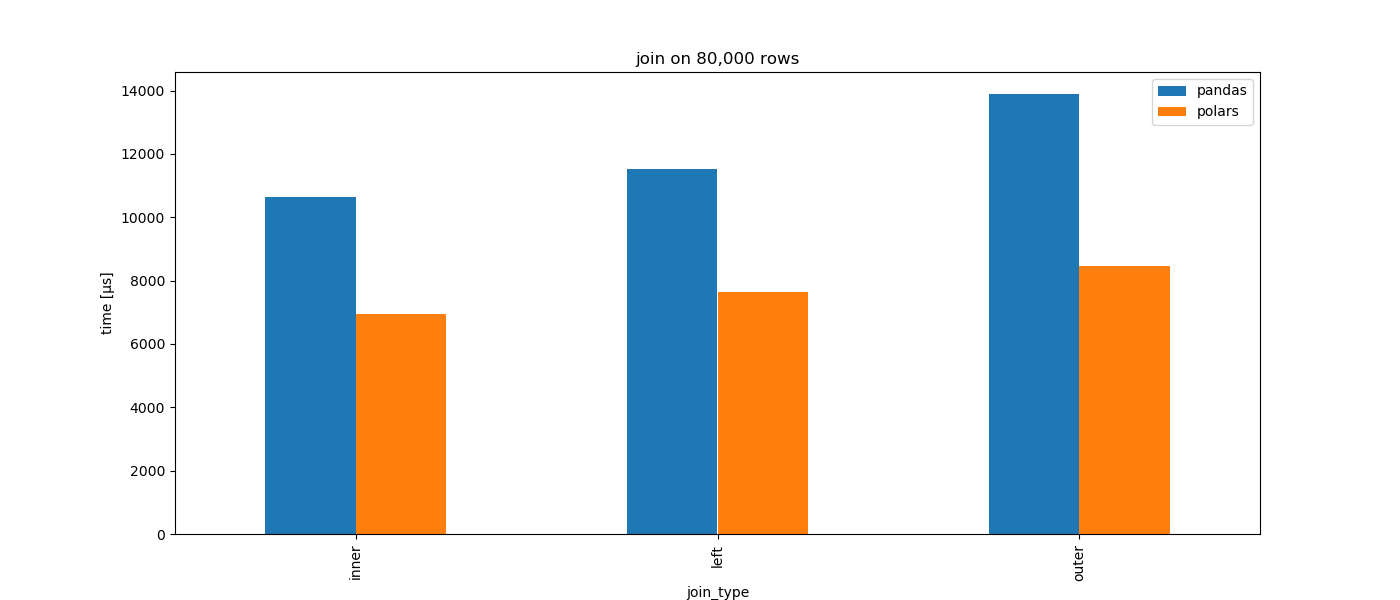
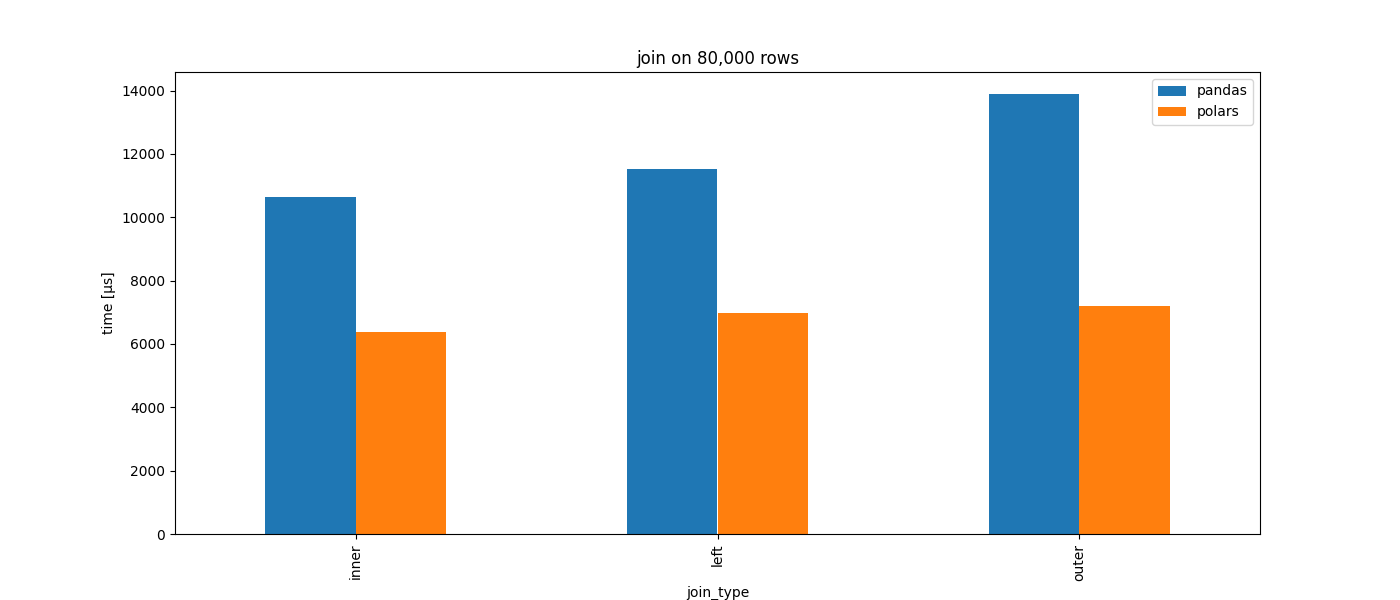
update readme and performance plots

diff --git a/README.md b/README.md
@@ -4,37 +4,57 @@
 [![](http://meritbadge.herokuapp.com/polars)](https://crates.io/crates/polars)
 [![Gitter](https://badges.gitter.im/polars-rs/community.svg)](https://gitter.im/polars-rs/community?utm_source=badge&utm_medium=badge&utm_campaign=pr-badge)
 
-## Blazingly fast (lazy) in memory DataFrames in Rust
+## Blazingly fast  DataFrames in Rust
 
-Polars is a DataFrames library implemented in Rust, using Apache Arrow as backend. 
-Its focus is being a fast in memory DataFrame library. 
+Polars is a blazingly fast DataFrames library implemented in Rust. Its memory model uses Apache Arrow as backend. 
 
-Polars is in rapid development, but it already supports most features needed for a useful DataFrame library. Do you
-miss something, please make an issue and/or sent a PR.
+It currently consists of an eager API similar to pandas and a lazy API that is somewhat similar to spark. Amongst
+more the eager API supports:
 
-## First run in Rust
-Take a look at the [10 minutes to Polars notebook](examples/10_minutes_to_polars.ipynb) to get you started.
-Want to run the notebook yourself? Clone the repo and run `$ cargo c && docker-compose up`. This will spin up a jupyter
-notebook on `http://localhost:8891`. The notebooks are in the `/examples` directory.
- 
-Oh yeah.. and get a cup of coffee because compilation will take while during the first run.
+* Filters
+* Shifts
+* IO (csv, parquet, Arrow IPC)
+* GroupBys + aggregations
+* Joins
+* Pivots
+* Melts
+* Filling null values with various strategies
+* Aggregations
+* Comparisons
+* Reversing
+* Sorting
+* Finding unique values
+* Arithmetic
+* Rust iterators
+* Closure application
 
-## First run in Python
-A subset of the Polars functionality is also exposed through Python bindings. You can install them with:
+The lazy API is built on top of the eager API and currently only supports a subset:
 
-`$ pip install py-polars`
-
-Next you can check the [10 minutes to py-polars notebook](examples/10_minutes_to_pypolars.ipynb) or take a look 
-at the [reference](https://py-polars.readthedocs.io/en/latest/).
+* Filters
+* Joins
+* GroupBys + aggregations
+* Comparisons
+* Arithmetic
+* Aggregations
+* Sorting
+* query optimization
+    - predicate pushdown optimization
+    - projection pushdown optimization
+    - type-coercion optimization
 
 
 ## Documentation
-Want to know what features Polars support? [Check the current master docs](https://ritchie46.github.io/polars). 
+Want to know about all the features Polars supports? [Check the current master docs](https://ritchie46.github.io/polars). 
 
 Most features are described on the [DataFrame](https://ritchie46.github.io/polars/polars/frame/struct.DataFrame.html), 
 [Series](https://ritchie46.github.io/polars/polars/series/enum.Series.html), and [ChunkedArray](https://ritchie46.github.io/polars/polars/chunked_array/struct.ChunkedArray.html)
 structs in that order. For `ChunkedArray` a lot of functionality is also defined by `Traits` in the 
 [ops module](https://ritchie46.github.io/polars/polars/chunked_array/ops/index.html).
+Other useful parts of the documentation are:
+* [Time/ DateTime utilities](https://ritchie46.github.io/polars/polars/doc/time/index.html)
+* [Groupby, aggregations and pivots](https://ritchie46.github.io/polars/polars/frame/group_by/struct.GroupBy.html)
+* [Lazy DataFrame](https://ritchie46.github.io/polars/polars/lazy/frame/struct.LazyFrame.html)
+
 
 ## Performance
 Polars is written to be performant. Below are some comparisons with the (also very fast) Pandas DataFrame library.
@@ -45,149 +65,23 @@ Polars is written to be performant. Below are some comparisons with the (also ve
 #### Joins
 ![](pandas_cmp/img/join_80_000.png)
 
-## Functionality
 
-### Read and write CSV | JSON | IPC | Parquet
-
-```rust
- use polars::prelude::*;
- use std::fs::File;
+## First run in Rust
+Take a look at the [10 minutes to Polars notebook](examples/10_minutes_to_polars.ipynb) to get you started.
+Want to run the notebook yourself? Clone the repo and run `$ cargo c && docker-compose up`. This will spin up a jupyter
+notebook on `http://localhost:8891`. The notebooks are in the `/examples` directory.
  
- fn example() -> Result<DataFrame> {
-     let file = File::open("iris.csv")
-                     .expect("could not open file");
- 
-     CsvReader::new(file)
-             .infer_schema(None)
-             .has_header(true)
-             .finish()
- }
-```
+Oh yeah.. and get a cup of coffee because compilation will take a while during the first run.
 
-### Joins
+## First run in Python
+A subset of the Polars functionality is also exposed through Python bindings. You can install them with:
 
-```rust
- use polars::prelude::*;
+`$ pip install py-polars`
 
- fn join() -> Result<DataFrame> {
-     // Create first df.
-     let temp = df!("days" => &[0, 1, 2, 3, 4],
-                    "temp" => &[22.1, 19.9, 7., 2., 3.])?;
+Next you can check the [10 minutes to py-polars notebook](examples/10_minutes_to_pypolars.ipynb) or take a look 
+at the [reference](https://py-polars.readthedocs.io/en/latest/).
 
-     // Create second df.
-     let rain = df!("days" => &[1, 2],
-                    "rain" => &[0.1, 0.2])?;
 
-     // Left join on days column.
-     temp.left_join(&rain, "days", "days")
- }
-
- println!("{:?}", join().unwrap());
-```
-
-```text
- +------+------+------+
- | days | temp | rain |
- | ---  | ---  | ---  |
- | i32  | f64  | f64  |
- +======+======+======+
- | 0    | 22.1 | null |
- +------+------+------+
- | 1    | 19.9 | 0.1  |
- +------+------+------+
- | 2    | 7    | 0.2  |
- +------+------+------+
- | 3    | 2    | null |
- +------+------+------+
- | 4    | 3    | null |
- +------+------+------+
-```
-
-### Groupby's | aggregations | pivots | melts
-
-```rust
- use polars::prelude::*;
- fn groupby_sum(df: &DataFrame) -> Result<DataFrame> {
-     df.groupby(&["a", "b"])?
-     .select("agg_column_name")
-     .sum()
- }
-```
-
-### Arithmetic
-```rust
- use polars::prelude::*;
- let s = Series::new("foo", [1, 2, 3]);
- let s_squared = &s * &s;
-```
-
-### Rust iterators
-
-```rust
- use polars::prelude::*;
- 
- let s: Series = [1, 2, 3].iter().collect();
- let s_squared: Series = s.i32()
-      .expect("datatype mismatch")
-      .into_iter()
-      .map(|optional_v| {
-              match optional_v {
-                  Some(v) => Some(v * v),
-                  None => None, // null value
-              }
-          }).collect();
-```
-
-### Apply custom closures
-```rust
- use polars::prelude::*;
- 
- let s: Series = Series::new("values", [Some(1.0), None, Some(3.0)]);
- // null values are ignored automatically
- let squared = s.f64()
-     .unwrap()
-     .apply(|value| value.powf(2.0))
-     .into_series();
- 
- assert_eq!(Vec::from(squared.f64().unwrap()), &[Some(1.0), None, Some(9.0)]);
-```
-
-### Comparisons
-
-```rust
- use polars::prelude::*;
- use itertools::Itertools;
- let s = Series::new("dollars", &[1, 2, 3]);
- let mask = s.eq(1);
- 
- assert_eq!(Vec::from(mask), &[Some(true), Some(false), Some(false)]);
-```
-
-## Temporal data types
-
-```rust
- let dates = &[
- "2020-08-21",
- "2020-08-21",
- "2020-08-22",
- "2020-08-23",
- "2020-08-22",
- ];
- // date format
- let fmt = "%Y-%m-%d";
- // create date series
- let s0 = Date32Chunked::parse_from_str_slice("date", dates, fmt)
-         .into_series();
-```
-
-## And more...
-
-* [DataFrame](https://ritchie46.github.io/polars/polars/frame/struct.DataFrame.html)
-* [Series](https://ritchie46.github.io/polars/polars/series/enum.Series.html)
-* [ChunkedArray](https://ritchie46.github.io/polars/polars/chunked_array/struct.ChunkedArray.html)
-     - [Operations implemented by Traits](https://ritchie46.github.io/polars/polars/chunked_array/ops/index.html)
-* [Time/ DateTime utilities](https://ritchie46.github.io/polars/polars/doc/time/index.html)
-* [Groupby, aggregations and pivots](https://ritchie46.github.io/polars/polars/frame/group_by/struct.GroupBy.html)
 
 ## Features
 
